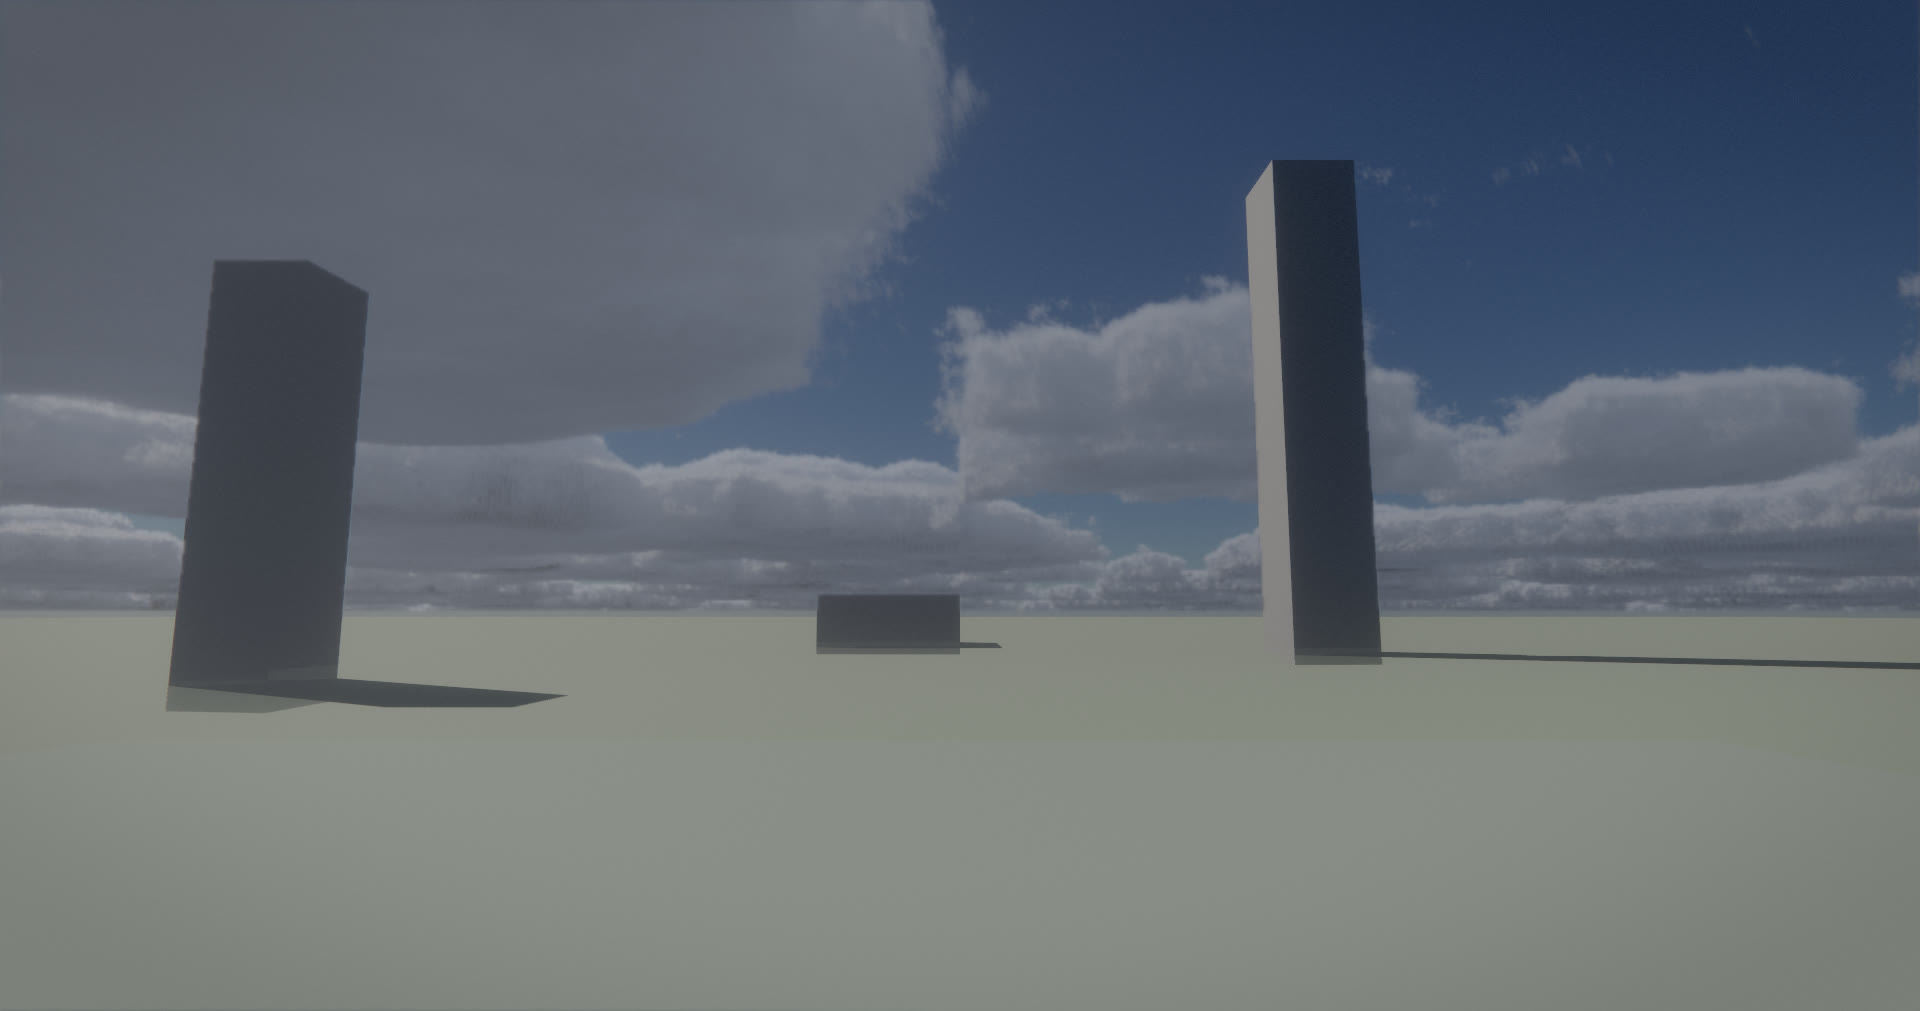
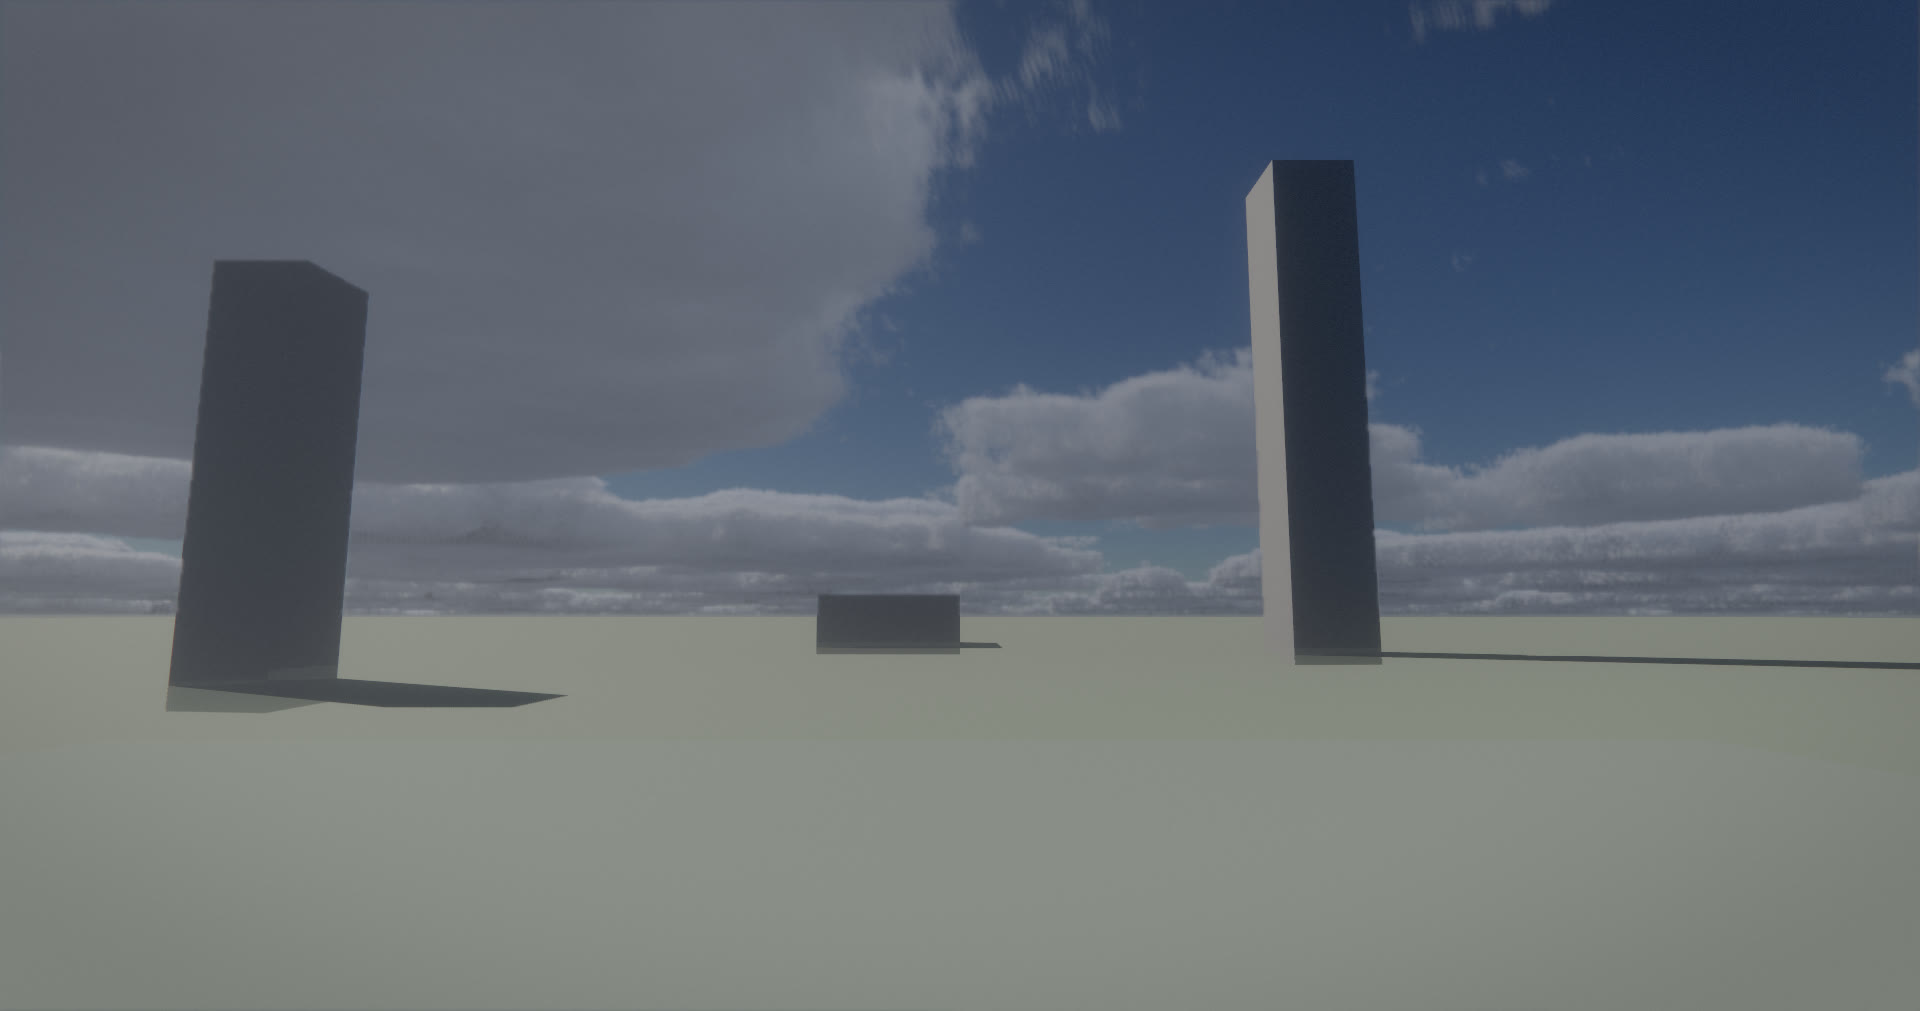
cloudscape: per-class shell altitudes, darkness control, sky-occlusion mottle, rain-legible decks

diff --git a/engine/render/atmosphere/cloudscape_types.h b/engine/render/atmosphere/cloudscape_types.h
@@ -40,14 +40,23 @@ struct CloudscapeControls {
 
   f32 turbulence = 1.0f;     // curl-noise distortion of the erosion detail
   f32 density = 1.0f;        // global density multiplier
-  // Shell altitudes. The base sits well above the legacy clouds pass (1500 m)
-  // so the deck reads overhead rather than crowding the horizon, and the top
-  // leaves room for real vertical development on storm towers.
-  f32 bottom = 2600.0f;      // layer base, metres above sea level
-  f32 top = 8200.0f;         // layer top
+  // Shell altitudes, metres ASL, authored per weather state to match the real
+  // vertical structure of each cloud class: stratus ceilings sit near the
+  // surface and stay thin (base up to ~1.2 km, a few hundred metres deep),
+  // stratocumulus decks run ~0.6-1.5 km base with tops near 2.5 km, cumulus
+  // bases lift with the condensation level (~0.5-2 km, approaching 2.7 km in
+  // dry climates) with fair-weather tops a further 1-3 km up, and
+  // cumulonimbus towers climb from a low base to a 10-16 km anvil. Defaults
+  // describe a dry-climate cumulus deck.
+  f32 bottom = 1800.0f;      // layer base
+  f32 top = 6000.0f;         // layer top
   // Storminess 0..1: flattens tops toward an anvil profile and raises the
   // sun absorption so precipitating decks go dark-bottomed.
   f32 anvil = 0.0f;
+  // Menace 0..1: blackens the deck beyond what physics alone gives -- sun
+  // absorption climbs and the ambient/multi-scatter floors collapse, so a
+  // severe-storm sky reads genuinely threatening instead of merely grey.
+  f32 darkness = 0.0f;
 };
 
 }  // namespace rx::render

diff --git a/test/weather_test.cc b/test/weather_test.cc
@@ -56,6 +56,9 @@ WeatherState Storm(u32 seed) {
   s.cloud_type = 0.9f;
   s.precipitation = 1.0f;
   s.storminess = 1.0f;
+  s.darkness = 0.6f;
+  s.base_altitude = 1200.0f;  // cumulonimbus: low base, towering top
+  s.top_altitude = 12000.0f;
   s.map_seed = seed;
   s.wind_yaw = 0.0f;
   s.wind_speed = 20.0f;
@@ -149,6 +152,18 @@ void TestTransitionBlend() {
 
   sys.ForceState(1, 4.0f);  // cross-fade to the storm over 4s
   Check(sys.target_state() == 1, "ForceState retargets immediately");
+
+  // Mid-transition, the shell altitudes and menace sit strictly between the
+  // endpoints: the deck sinks/darkens WITH the cross-fade, never snapping.
+  sys.Update(2.0f, Vec3{0, 0, 0}, 0.5f);
+  {
+    const render::CloudscapeControls& mid = sys.cloudscape();
+    f32 lo_b = std::min(s0.base_altitude, s1.base_altitude);
+    f32 hi_b = std::max(s0.base_altitude, s1.base_altitude);
+    Check(mid.bottom > lo_b && mid.bottom < hi_b, "shell base blends through the transition");
+    Check(mid.darkness > s0.darkness && mid.darkness < s1.darkness,
+          "darkness blends through the transition");
+  }
 
   f32 prev = 0.0f, peak = 0.0f;
   bool monotonic = true, settled = false;

diff --git a/runtime/demo_scenes.cc b/runtime/demo_scenes.cc
@@ -3090,12 +3090,18 @@ void DemoScenes::CreateSkyDemoScene() {
     }
     return s;
   };
+  // Shell altitudes follow the class each state represents: fair-weather
+  // cumulus rides a high dry-climate condensation level, the stratocumulus
+  // overcast is a genuinely low thin ceiling, and the storm is a
+  // cumulonimbus tower running from a low base to a ~12 km anvil.
   weather::WeatherState clear;
   clear.name = "clear";
   clear.coverage = 0.26f;
   clear.cloud_type = 0.72f;
   clear.map_seed = 11u;
   clear.wind_speed = 9.0f;
+  clear.base_altitude = 2200.0f;
+  clear.top_altitude = 4600.0f;
   weather_sys_->AddState(tune(clear));
   weather::WeatherState scattered;
   scattered.name = "scattered";
@@ -3103,6 +3109,8 @@ void DemoScenes::CreateSkyDemoScene() {
   scattered.cloud_type = 0.78f;
   scattered.map_seed = 23u;
   scattered.wind_speed = 13.0f;
+  scattered.base_altitude = 2000.0f;
+  scattered.top_altitude = 6200.0f;
   weather_sys_->AddState(tune(scattered));
   weather::WeatherState overcast;
   overcast.name = "overcast";
@@ -3111,6 +3119,8 @@ void DemoScenes::CreateSkyDemoScene() {
   overcast.density = 1.15f;
   overcast.map_seed = 37u;
   overcast.wind_speed = 16.0f;
+  overcast.base_altitude = 1100.0f;
+  overcast.top_altitude = 2800.0f;
   weather_sys_->AddState(tune(overcast));
   weather::WeatherState storm;
   storm.name = "storm";
@@ -3118,10 +3128,13 @@ void DemoScenes::CreateSkyDemoScene() {
   storm.cloud_type = 0.95f;
   storm.precipitation = 0.85f;
   storm.storminess = 0.9f;
+  storm.darkness = 0.55f;  // menacing, not merely grey
   storm.density = 1.15f;
   storm.map_seed = 53u;
   storm.wind_speed = 22.0f;
   storm.turbulence = 1.4f;
+  storm.base_altitude = 1500.0f;
+  storm.top_altitude = 12000.0f;
   weather_sys_->AddState(tune(storm));
 
   int pinned = SkyState.get();

diff --git a/engine/weather/weather.h b/engine/weather/weather.h
@@ -53,8 +53,16 @@ struct WeatherState {
   f32 cloud_type = 0.6f;      // 0 stratus .. 0.5 stratocumulus .. 1 cumulus
   f32 precipitation = 0.0f;   // 0 none .. 1 heavy (also the surface-response driver)
   f32 storminess = 0.0f;      // 0..1 anvil: flattened tops, dark precipitating bases
+  f32 darkness = 0.0f;        // 0..1 menace: blackens the deck (severe-storm skies)
   f32 density = 1.0f;         // global cloud density multiplier
   u32 map_seed = 1u;          // varies the spatial pattern of the weather map
+  // Shell altitudes, metres ASL. Author them to the class this state
+  // represents: real stratus ceilings base below ~1.2 km and stay thin,
+  // stratocumulus ~0.6-1.5 km base / ~2.5 km top, cumulus bases ride the
+  // condensation level (~0.5-2 km, higher in dry air), and cumulonimbus
+  // towers run from a low base to a 10-16 km anvil.
+  f32 base_altitude = 1800.0f;
+  f32 top_altitude = 6000.0f;
 
   // --- Wind (shared by clouds + precipitation slant) ---
   f32 wind_yaw = 0.29146f;    // radians on XZ, direction the wind blows toward

diff --git a/engine/weather/weather.cc b/engine/weather/weather.cc
@@ -196,7 +196,12 @@ void WeatherSystem::Compose() {
   cloudscape_.turbulence = Lerpf(a.turbulence, b.turbulence, s);
   cloudscape_.density = Lerpf(a.density, b.density, s);
   cloudscape_.anvil = Lerpf(a.storminess, b.storminess, s);
-  // bottom/top stay at the contract defaults; the layer does not author them.
+  cloudscape_.darkness = Lerpf(a.darkness, b.darkness, s);
+  // The shell tracks the class each state represents (a stratus ceiling is
+  // genuinely low and thin, a storm tower genuinely enormous), so altitude
+  // cross-fades with the rest of the transition.
+  cloudscape_.bottom = Lerpf(a.base_altitude, b.base_altitude, s);
+  cloudscape_.top = Lerpf(a.top_altitude, b.top_altitude, s);
 
   // Renderer weather state.
   weather_.precipitation = Lerpf(a.precipitation, b.precipitation, s);

diff --git a/engine/render/atmosphere/cloudscape.cc b/engine/render/atmosphere/cloudscape.cc
@@ -24,7 +24,7 @@ struct MarchPush {
   u32 frame_index;
   u32 steps;
   u32 flags;
-  f32 pad;
+  f32 darkness;
 };
 static_assert(sizeof(MarchPush) <= 256, "march push must fit the 256B budget");
 
@@ -175,6 +175,7 @@ ResourceHandle Cloudscape::AddToGraph(RenderGraph& graph, ResourceHandle color,
         push.frame_index = frame.frame_index;
         push.steps = frame.steps;
         push.flags = history ? 1u : 0u;
+        push.darkness = c.darkness;
 
         ctx.cmd->BindPipeline(march_pipeline_);
         ctx.cmd->BindTransient(

diff --git a/CLOUDSCAPE.md b/CLOUDSCAPE.md
@@ -89,6 +89,29 @@ The march itself:
 Cloud sun-shadowing on the ground reuses the existing `cloud_shadow` layer,
 fed the blended map coverage.
 
+## Vertical structure
+
+Shell altitudes are authored **per weather state** (`WeatherState::base_altitude`
+/ `top_altitude`, cross-faded through transitions like every other control) and
+follow the real vertical structure of each cloud class:
+
+| Class | Base | Top |
+| --- | --- | --- |
+| stratus | near-surface .. ~1.2 km | thin, a few hundred metres |
+| stratocumulus | ~0.6–1.5 km | ~2.5 km |
+| cumulus | ~0.5–2 km (to ~2.7 km in dry climates) | fair-weather +1–3 km |
+| nimbostratus (rain deck) | low base | body 2–7 km (temperate) |
+| cumulonimbus | ~0.3–2 km | 10–16 km anvil |
+
+So the demo's overcast is a genuinely low thin ceiling, the fair-weather states
+ride a high dry-climate condensation level, and the storm is a tower running
+from 1.5 km to a 12 km anvil.
+
+`CloudscapeControls::darkness` (from `WeatherState::darkness`) is the menace
+knob: 0 leaves physics alone, 1 collapses the ambient and multiple-scatter
+floors while sun absorption climbs, so severe-storm skies go genuinely black
+instead of merely grey.
+
 ## Knobs
 
 - `RX_CLOUDSCAPE=1` — enable the model (or `cloudscape = true` in render.ini).